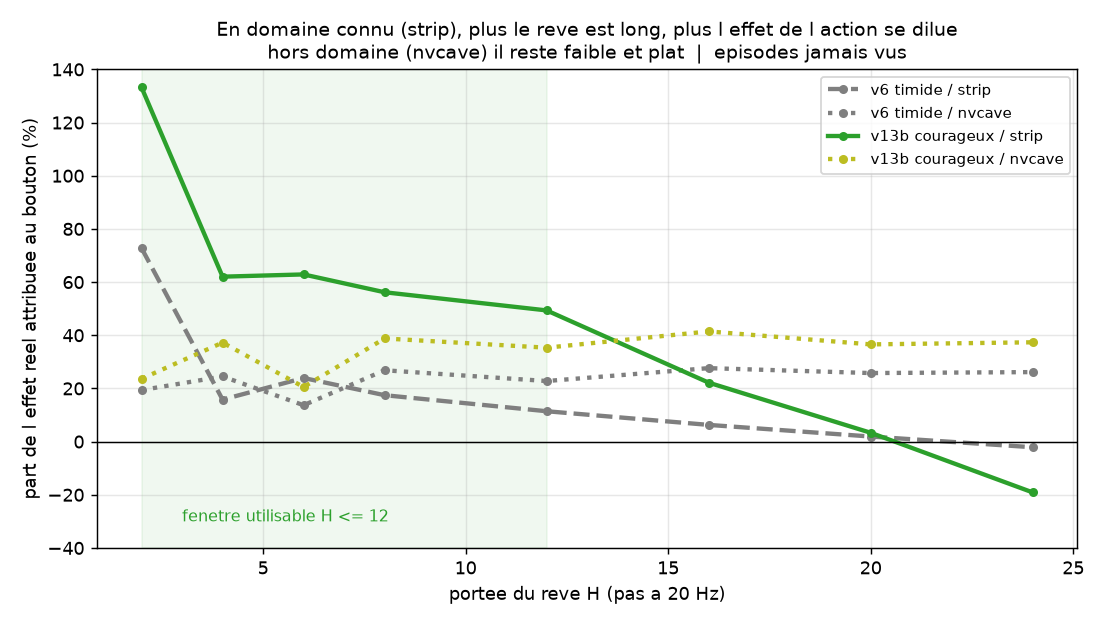
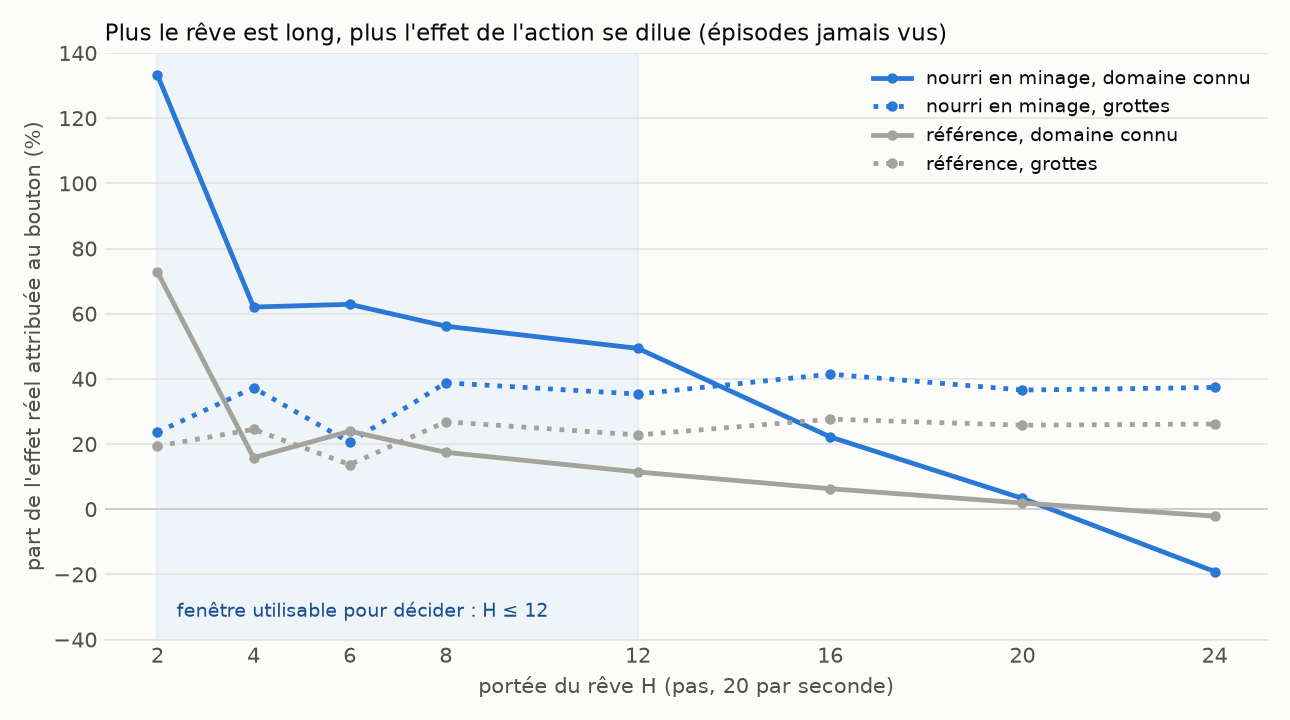
Figures du README : un seul style, et l'arène limitée à ses propres sessions
- figures_readme.py redessine les figures de timidité, d'engagement et de portée
  dans le style de la figure de l'arène (libellés accentués, axes en pas entiers).
- figure_engagement.py ne trace plus : il écrit les courbes dans
  outputs/diag/engagement.json.
- figure_arene.py s'arrête à la fin de l'arène finale, pour ne pas compter les
  sessions de la contre-épreuve : 65 % de frappes dans le vide contre 28 %.
- README : l'écart rattrapé est donné au bout de 20 pas, 45 % (arrondi corrigé).

diff --git a/scripts/figures_readme.py b/scripts/figures_readme.py
@@ -1,0 +1,134 @@
+"""
+Les trois figures de resultats du README, dans le style de figure_arene.py.
+
+  - figure_timidite_donnees.png : timidite par domaine et par modele (chiffres du JOURNAL, 15/07) ;
+  - figure_engagement.png       : courbe d'engagement (outputs/diag/engagement.json, figure_engagement.py) ;
+  - figure_portee_action.png    : part de l'effet attribuee au bouton (outputs/diag/portee_sep.json,
+                                  diag_separation.py).
+
+Aucun calcul ici : on redessine des chiffres deja mesures.
+
+Lance : .venv\\Scripts\\python.exe scripts\\figures_readme.py
+"""
+from __future__ import annotations
+
+import json
+from pathlib import Path
+
+import matplotlib.pyplot as plt
+import numpy as np
+
+ROOT = Path(__file__).resolve().parents[1]
+FIG = ROOT / "docs" / "figures"
+DIAG = ROOT / "outputs" / "diag"
+
+FOND, ENCRE, ENCRE2, GRILLE = "#fcfcfb", "#0b0b0b", "#52514e", "#e4e3df"
+BLEU, BLEU_FONCE, GRIS = "#2a78d6", "#174f91", "#a3a29b"
+
+# JOURNAL, 2026-07-15 : % des coups de pioche ou le reve ne casse jamais le bloc vise
+TIMIDITE = {"reference": {"rare": 82, "dense": 66},
+            "nourri": {"rare": 79, "dense": 47},
+            "gros": {"rare": 81, "dense": 49}}
+
+
+def style(ax):
+    ax.set_facecolor(FOND)
+    ax.grid(axis="y", color=GRILLE, linewidth=0.8, zorder=0)
+    for s in ("top", "right", "left"):
+        ax.spines[s].set_visible(False)
+    ax.spines["bottom"].set_color(GRILLE)
+    ax.tick_params(length=0)
+
+
+def base():
+    plt.rcParams.update({"font.size": 10, "text.color": ENCRE, "axes.labelcolor": ENCRE2,
+                         "xtick.color": ENCRE2, "ytick.color": ENCRE2, "legend.frameon": False})
+
+
+def timidite():
+    fig, ax = plt.subplots(figsize=(8.6, 5.0), facecolor=FOND)
+    series = [("reference", "référence, 3,65 M de paramètres", GRIS),
+              ("nourri", "nourri en minage, même taille", BLEU),
+              ("gros", "nourri en minage, 7 fois plus gros (25,7 M)", BLEU_FONCE)]
+    groupes = [("rare", "grottes\nminage rare (~35 % des images)"),
+               ("dense", "mine en tranchée\nminage dense (~80 % des images)")]
+    w = 0.26
+    for i, (cle, nom, c) in enumerate(series):
+        for g, (dom, _) in enumerate(groupes):
+            v = TIMIDITE[cle][dom]
+            ax.bar(g + (i - 1) * w, v, width=w * 0.92, color=c, zorder=2, label=nom if g == 0 else None)
+            ax.text(g + (i - 1) * w, v + 1.5, f"{v} %", ha="center", va="bottom", fontsize=9)
+    ax.annotate("−19 points : même taille,\nseules les données changent", xy=(1, 54), xytext=(1.13, 66),
+                ha="center", va="center", fontsize=9, color=ENCRE2,
+                arrowprops={"arrowstyle": "->", "color": ENCRE2, "lw": 0.9})
+    ax.set_xticks(range(len(groupes)), [g[1] for g in groupes])
+    ax.set_ylim(0, 100)
+    ax.set_ylabel("timidité : % des coups où le rêve ne casse pas le bloc")
+    ax.set_title("La timidité suit la fréquence du minage dans les données, pas la taille du modèle",
+                 loc="left", fontsize=11)
+    ax.legend(loc="upper right", fontsize=9)
+    style(ax)
+    fig.tight_layout()
+    fig.savefig(FIG / "figure_timidite_donnees.png", dpi=150, facecolor=FOND)
+
+
+def engagement():
+    r = json.loads((DIAG / "engagement.json").read_text(encoding="utf-8"))
+    fig, axes = plt.subplots(1, 2, figsize=(12, 4.8), sharey=True, facecolor=FOND)
+    titres = {"dense": "Mine en tranchée : minage dense", "rare": "Grottes : minage rare"}
+    for ax, dom in zip(axes, ("dense", "rare")):
+        d = r[dom]
+        hs = np.arange(1, len(d["reel"]) + 1)
+        ax.plot(hs, d["reel"], color=ENCRE, lw=2.6, label="réel", zorder=3)
+        ax.plot(hs, d["nourri"], color=BLEU, lw=2.4, label="rêve, modèle nourri en minage", zorder=3)
+        ax.plot(hs, d["timide"], color=GRIS, lw=2.2, ls="--", label="rêve, modèle de référence", zorder=3)
+        ecart = (d["nourri"][-1] - d["timide"][-1]) / (d["reel"][-1] - d["timide"][-1])
+        ax.text(0.98, 0.04, f"au 20e pas, le modèle nourri rattrape {ecart:.0%} de l'écart\n"
+                f"{d['evenements']} coups de pioche, épisodes exclus de l'entraînement".replace("%", " %"),
+                transform=ax.transAxes, ha="right", va="bottom", fontsize=8.5, color=ENCRE2)
+        ax.set_title(titres[dom], loc="left", fontsize=11)
+        ax.set_xlabel("pas du rêve (20 pas par seconde)")
+        ax.set_xticks([1, 5, 10, 15, 20])
+        style(ax)
+    axes[0].set_ylabel("changement du bloc visé depuis le coup\n(0 = la scène reste figée)")
+    axes[0].legend(loc="upper left", fontsize=9)
+    fig.tight_layout()
+    fig.savefig(FIG / "figure_engagement.png", dpi=150, facecolor=FOND)
+
+
+def portee():
+    r = json.loads((DIAG / "portee_sep.json").read_text(encoding="utf-8"))
+    hs = r["H"]
+    courbes = [("v13b courageux / strip", "nourri en minage, domaine connu", BLEU, "-"),
+               ("v13b courageux / nvcave", "nourri en minage, grottes", BLEU, ":"),
+               ("v6 timide / strip", "référence, domaine connu", GRIS, "-"),
+               ("v6 timide / nvcave", "référence, grottes", GRIS, ":")]
+    fig, ax = plt.subplots(figsize=(8.6, 4.8), facecolor=FOND)
+    ax.axvspan(min(hs), 12, color=BLEU, alpha=0.06, zorder=0)
+    ax.text(min(hs) + 0.4, -33, "fenêtre utilisable pour décider : H ≤ 12", fontsize=9, color=BLEU_FONCE)
+    ax.axhline(0, color=ENCRE2, lw=0.8, zorder=1)
+    for cle, nom, c, ls in courbes:
+        ax.plot(hs, [100 * x for x in r["sep"][cle]], color=c, ls=ls, lw=2.3, marker="o", ms=4,
+                label=nom, zorder=3)
+    ax.set_xticks(hs)
+    ax.set_ylim(-40, 140)
+    ax.set_xlabel("portée du rêve H (pas, 20 par seconde)")
+    ax.set_ylabel("part de l'effet réel attribuée au bouton (%)")
+    ax.set_title("Plus le rêve est long, plus l'effet de l'action se dilue (épisodes jamais vus)",
+                 loc="left", fontsize=11)
+    ax.legend(loc="upper right", fontsize=9)
+    style(ax)
+    fig.tight_layout()
+    fig.savefig(FIG / "figure_portee_action.png", dpi=150, facecolor=FOND)
+
+
+def main():
+    base()
+    timidite()
+    engagement()
+    portee()
+    print(f"-> {FIG} : figure_timidite_donnees.png, figure_engagement.png, figure_portee_action.png")
+
+
+if __name__ == "__main__":
+    main()

diff --git a/scripts/figure_engagement.py b/scripts/figure_engagement.py
@@ -9,8 +9,8 @@ evenements de minage d'episodes JAMAIS VUS.
   - TIMIDE    : reste plat (le reve fige la scene)
   - COURAGEUX : monte (le reve s'engage)
 
-Deux panneaux : domaine DENSE (strip) vs domaine RARE (nvcave) -> montre que
-le meme modele s'engage la ou il a vu l'evenement souvent, et se fige ailleurs.
+Deux domaines : DENSE (strip) et RARE (nvcave). Ecrit les courbes moyennes dans
+outputs/diag/engagement.json ; la figure est dessinee par scripts/figures_readme.py.
 
 Lance : .venv\\Scripts\\python.exe scripts\\figure_engagement.py
 """
@@ -20,12 +20,8 @@ import json
 import sys
 from pathlib import Path
 
-import matplotlib
 import numpy as np
 import torch
-
-matplotlib.use("Agg")
-import matplotlib.pyplot as plt  # noqa: E402
 
 ROOT = Path(__file__).resolve().parents[1]
 sys.path.insert(0, str(ROOT / "src"))
@@ -36,10 +32,11 @@ from dreamcraft.models.conv_predictor import ConvPredictor  # noqa: E402
 H = 20
 PATCH = (26, 38)
 MAX_EV = 120
-MODELS = {"timide (baseline)": ROOT / "outputs" / "v6-nvcave" / "model_best.pt",
-          "courageux (in-domain)": ROOT / "outputs" / "v13b-indomain" / "model_best.pt"}
-PANELS = [("domaine DENSE - strip (~80 % minage)", ["strip_051", "strip_052"]),
-          ("domaine RARE - nvcave (~35 % minage)", ["nvcave_008", "nvcave_026"])]
+OUT = ROOT / "outputs" / "diag" / "engagement.json"
+MODELS = {"timide": ROOT / "outputs" / "v6-nvcave" / "model_best.pt",
+          "nourri": ROOT / "outputs" / "v13b-indomain" / "model_best.pt"}
+PANELS = [("dense", ["strip_051", "strip_052"]),       # strip, ~80 % de minage
+          ("rare", ["nvcave_008", "nvcave_026"])]      # grottes, ~35 % de minage
 
 
 def load_ep(stem):
@@ -94,10 +91,9 @@ def real_curve(fr_u8, evs):
 def main():
     device = "cuda" if torch.cuda.is_available() else "cpu"
     loaded = {n: load_model(p, device) for n, p in MODELS.items()}
-    fig, axes = plt.subplots(1, 2, figsize=(13, 5), sharey=True)
-
-    for ax, (title, stems) in zip(axes, PANELS):
-        acc = {"REEL": [], **{n: [] for n in MODELS}}
+    res = {}
+    for title, stems in PANELS:
+        acc = {"reel": [], **{n: [] for n in MODELS}}
         for stem in stems:
             fr, actions, ok = load_ep(stem)
             tap = actions[:, 6] > 0.5
@@ -107,29 +103,14 @@ def main():
                 evs = [evs[i] for i in np.linspace(0, len(evs) - 1, MAX_EV).astype(int)]
             if not evs:
                 continue
-            acc["REEL"].append(real_curve(fr, evs))
+            acc["reel"].append(real_curve(fr, evs))
             for n, (m, ctx) in loaded.items():
                 acc[n].append(curves(m, ctx, fr, actions, evs, device))
-        hs = np.arange(1, H + 1)
-        styles = {"REEL": ("k", "-", 2.8), "timide (baseline)": ("tab:gray", "--", 2.2),
-                  "courageux (in-domain)": ("tab:green", "-", 2.6)}
-        for n, arrs in acc.items():
-            if not arrs:
-                continue
-            m = np.concatenate(arrs).mean(axis=0)
-            c, ls, lw = styles[n]
-            ax.plot(hs, m, color=c, ls=ls, lw=lw, label=n)
-        ax.set_title(title, fontsize=11)
-        ax.set_xlabel("pas du reve h")
-        ax.grid(alpha=.3)
-        ax.legend(fontsize=9)
-    axes[0].set_ylabel("changement du bloc vise (0 = scene figee)")
-    fig.suptitle("Le reve s'engage-t-il sur l'evenement ?  -  moyenne sur episodes JAMAIS VUS",
-                 fontsize=13)
-    fig.tight_layout()
-    out = ROOT / "outputs" / "figure_engagement.png"
-    fig.savefig(out, dpi=130)
-    print(f"-> {out.relative_to(ROOT)}")
+        res[title] = {n: np.concatenate(a).mean(axis=0).tolist() for n, a in acc.items() if a}
+        res[title]["evenements"] = int(sum(len(a) for a in acc["reel"]))
+    OUT.parent.mkdir(parents=True, exist_ok=True)
+    OUT.write_text(json.dumps(res, indent=1), encoding="utf-8")
+    print(f"-> {OUT.relative_to(ROOT)}  (figure : scripts/figures_readme.py)")
 
 
 if __name__ == "__main__":

diff --git a/scripts/figure_arene.py b/scripts/figure_arene.py
@@ -18,7 +18,7 @@ ROOT = Path(__file__).resolve().parents[1]
 RES = ROOT / "outputs" / "arene" / "resultats_20261109-191206.json"
 DATA = ROOT / "data" / "processed_agent"
 OUT = ROOT / "docs" / "figures" / "figure_arene.png"
-DEBUT = "20261109-1830"                     # sessions de l'arene finale : apres cette heure
+DEBUT, FIN = "20261109-1830", "20261109-1913"   # sessions de l'arene finale (la contre-epreuve vient apres)
 RATEES = (11, 12)                           # manches 12 et 13 (indices) : salles mal construites
 
 FOND, ENCRE, ENCRE2, GRILLE = "#fcfcfb", "#0b0b0b", "#52514e", "#e4e3df"
@@ -30,7 +30,7 @@ NOMS = {"appris": "appris\n(verifie + détecteur v3)", "mine_et_balaye": "mine_e
 def frappes_dans_le_vide(joueur):
     tot = vide = 0
     for p in DATA.glob(f"dc_arene_{joueur}_*.npz"):
-        if p.stem.split("_")[-1] <= DEBUT:
+        if not DEBUT < p.stem.split("_")[-1] <= FIN:
             continue
         z = np.load(p)
         ph = z["phase"]
@@ -73,7 +73,7 @@ def main():
         b.text(i, 100 * p + 2, f"{100 * p:.0f} %", ha="center", va="bottom", fontweight="bold")
     b.set_xticks([0, 1], ["verifie", "appris"])
     b.set_ylim(0, 100)
-    b.set_ylabel("% des frappes sur un bloc hors de portée")
+    b.set_ylabel("% des frappes dans le vide (rien visé, ou trop loin)")
     b.set_title("Frappes dans le vide", loc="left", fontsize=11)
 
     for ax in (a, b):

diff --git a/scripts/README.md b/scripts/README.md
@@ -46,7 +46,7 @@ Les scripts sont gardés à plat, dans l'ordre où le projet les a produits. Ce 
 
 | script | rôle |
 |---|---|
-| `figure_engagement.py` | le rêve s'engage-t-il sur l'événement ? (réel / timide / courageux) |
+| `figure_engagement.py` | le rêve s'engage-t-il sur l'événement ? calcule les courbes (`outputs/diag/engagement.json`) |
 | `gif_courage.py` | GIF timide vs courageux |
 
 ## Monde 2 : choisir
@@ -77,4 +77,5 @@ Les scripts sont gardés à plat, dans l'ordre où le projet les a produits. Ce 
 | `arene.py` | **l'arène à salles identiques** : même salle pour chaque joueur, blocs cassés en 30 s, test de signe |
 | `detecteur_v3.py` | le même détecteur réentraîné avec les coups joués par l'agent dans les arènes |
 | `figure_arene.py` | figure de l'arène finale (`docs/figures/figure_arene.png`) |
+| `figures_readme.py` | redessine les trois figures de résultats du README à partir des chiffres déjà mesurés |
 | `foret.py` | en surface, en forêt : collecte de sonde et arène « couper du bois » (score : troncs cassés) |

diff --git a/README.md b/README.md
@@ -33,7 +33,7 @@ Avec les mêmes 3,65 M de paramètres, nourrir le modèle de vidéos de minage (
 
 <p align="center"><img src="docs/figures/figure_engagement.png" width="760" alt="Courbe d'engagement réel / timide / courageux"></p>
 
-Sur des épisodes exclus de l'entraînement (mais découpés dans les mêmes vidéos, voir Méthode), le modèle nourri en domaine dense rattrape **44 %** de l'écart avec la réalité, contre **15 %** hors domaine. Tous les rêves restent en dessous de la réalité : les bonnes données divisent l'écart par deux environ, elles ne le suppriment pas.
+Sur des épisodes exclus de l'entraînement (mais découpés dans les mêmes vidéos, voir Méthode), au bout de 20 pas, le modèle nourri en domaine dense rattrape **45 %** de l'écart entre le modèle de référence et la réalité, contre **15 %** hors domaine. Tous les rêves restent en dessous de la réalité : les bonnes données divisent l'écart par deux environ, elles ne le suppriment pas.
 
 ### 2. L'effet de l'action s'efface avec l'horizon
 
